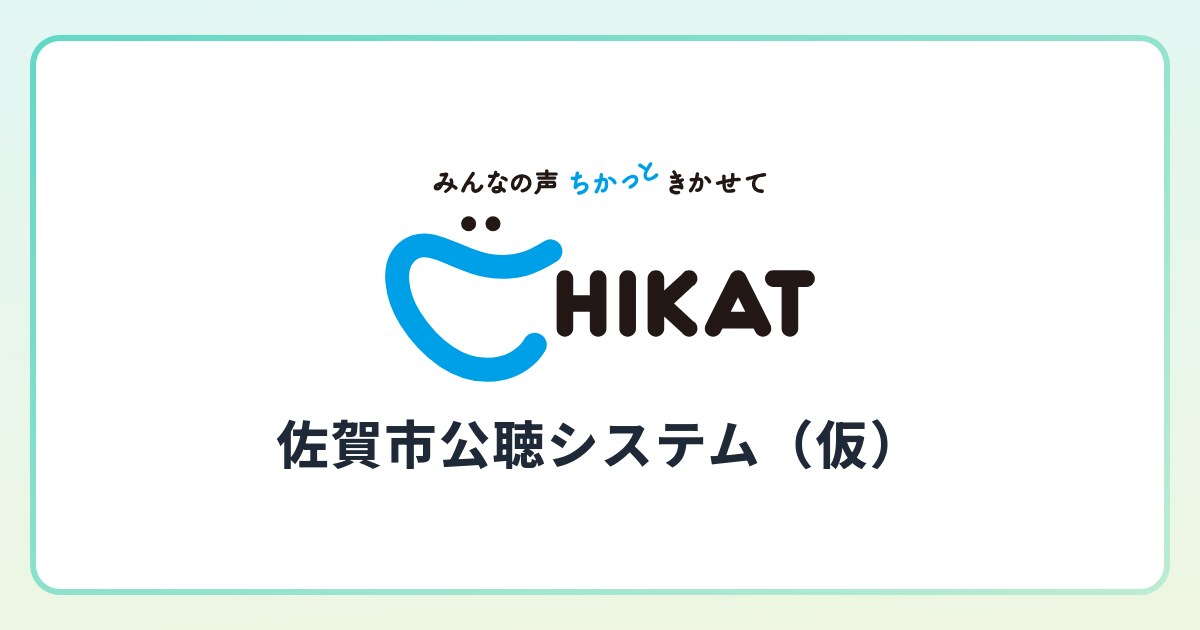
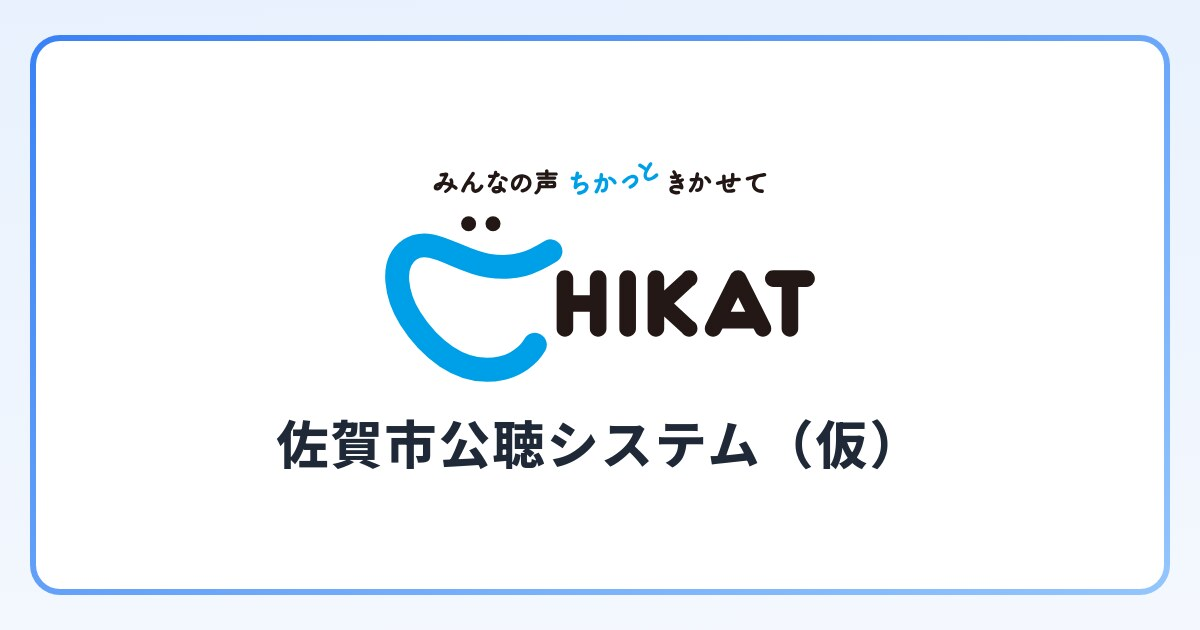
ヘッダーをタグライン抜きロゴに差し替え、OGPの配色を青系へ統一 (#61)
- タグラインを外した logo-compact.svg を追加。ヘッダーは小さく表示するため
  タグラインが数pxに潰れて視認性を下げていたのでこちらを使う
- logoImageProps(variant, height) が src と縦横比をセットで返すようにし、
  「compactのSVGにfullの比率」のような取り違えが起きないようにした
- OGPに残っていたfork元のティール系配色を OG_COLORS に切り出して青系へ統一
  (背景グラデ / カード枠 / 施策名テキスト #0f8472 → --primary-accent)
- route.test.tsx が施策名の色をliteralでセレクタに使っていたため
  OG_COLORS.textAccent 参照に変更し再ドリフトを防止
- manifest.json の theme_color を #2aa693 → #1d4ed8 (--primary)
- OGP右上の「みらい議会」バッジを削除
- 静止OGP(ogp.jpg)を同じ配色で再生成

Changed region(s): [[0.0, 0.0302, 1.0, 1.0]]

diff --git a/web/src/app/api/og/report/route.tsx b/web/src/app/api/og/report/route.tsx
@@ -3,7 +3,7 @@ import { join } from "node:path";
 import { ImageResponse } from "next/og";
 import { getReportOgData } from "@/features/interview-report/server/loaders/get-report-og-data";
 import { truncateText } from "@/features/interview-report/shared/utils/truncate-text";
-import { logoSizeForHeight } from "@/lib/logo";
+import { logoImageProps } from "@/lib/logo";
 import { SERVICE_NAME } from "@/lib/site";
 
 /**
@@ -13,6 +13,26 @@ const OG_SUMMARY_MAX_LENGTH = 100;
 const OG_BILL_NAME_MAX_LENGTH = 40;
 const OG_BILL_NAME_WIDTH = 820;
 const OG_BILL_NAME_MAX_HEIGHT = 96;
+
+/**
+ * OGP画像の配色
+ *
+ * Satori(next/og)はCSS変数を解決できないため、`globals.css` のカラートークンと
+ * 手で同期させる必要がある。frame は `--color-mirai-gradient-start/end`
+ * (#3b82f6 / #93c5fd) と同じ青系グラデーション。
+ */
+export const OG_COLORS = {
+  /** 1200x630 の地 */
+  canvas: "linear-gradient(177deg, #e8f1fd 0%, #f4f8fe 100%)",
+  /** カードのグラデ枠 / 右上バッジ */
+  frame: "linear-gradient(-30deg, #93c5fd 1%, #3b82f6 99%)",
+  /** カード本体 */
+  card: "#ffffff",
+  /** 本文テキスト。--color-mirai-text (#1f2937) */
+  text: "#1f2937",
+  /** 施策名の強調テキスト。--primary-accent (#1e40af) */
+  textAccent: "#1e40af",
+} as const;
 
 /** OGP右下に配置するロゴの表示サイズと、カード端からのオフセット(px) */
 const OG_LOGO = { height: 88, bottom: 26, right: 34 } as const;
@@ -103,6 +123,12 @@ export async function GET(request: Request) {
   );
 
   const [fontData, logoDataUrl] = await Promise.all([loadFont(), loadLogo()]);
+
+  // ロゴはラスター版(ogp-logo.png)を埋め込むのでsrcは使わず、寸法だけフル版の比率から引く
+  const { width: logoWidth, height: logoHeight } = logoImageProps(
+    "full",
+    OG_LOGO.height
+  );
   // フォント取得失敗時はプロパティ自体を省略し、デフォルトフォントにフォールバック
   const fontOptions = fontData
     ? {
@@ -125,8 +151,7 @@ export async function GET(request: Request) {
         display: "flex",
         alignItems: "center",
         justifyContent: "center",
-        backgroundImage:
-          "linear-gradient(177deg, rgb(226, 246, 243) 0%, rgb(238, 246, 226) 100%)",
+        backgroundImage: OG_COLORS.canvas,
       }}
     >
       {/* グラデーションborder用ラッパー */}
@@ -136,8 +161,7 @@ export async function GET(request: Request) {
           width: 1140,
           height: 560,
           borderRadius: 30,
-          backgroundImage:
-            "linear-gradient(-30deg, rgb(188, 236, 211) 1%, rgb(100, 216, 198) 99%)",
+          backgroundImage: OG_COLORS.frame,
           padding: 6,
           position: "relative",
         }}
@@ -148,7 +172,7 @@ export async function GET(request: Request) {
             flexDirection: "column",
             width: "100%",
             height: "100%",
-            backgroundColor: "white",
+            backgroundColor: OG_COLORS.card,
             borderRadius: 24,
             padding: "48px 56px",
           }}
@@ -159,7 +183,7 @@ export async function GET(request: Request) {
               display: "flex",
               fontSize: 38,
               fontWeight: 800,
-              color: "#1f2937",
+              color: OG_COLORS.text,
               lineHeight: 1.8,
               flex: 1,
               width: 740,
@@ -177,7 +201,7 @@ export async function GET(request: Request) {
               maxHeight: OG_BILL_NAME_MAX_HEIGHT,
               fontSize: 32,
               fontWeight: 800,
-              color: "#0f8472",
+              color: OG_COLORS.textAccent,
               lineHeight: 1.5,
               overflow: "hidden",
               wordBreak: "break-all",
@@ -187,44 +211,14 @@ export async function GET(request: Request) {
           </div>
         </div>
 
-        {/* みらい議会バッジ */}
-        <div
-          style={{
-            position: "absolute",
-            top: 0,
-            right: 0,
-            display: "flex",
-            alignItems: "center",
-            justifyContent: "center",
-            paddingLeft: 20,
-            paddingRight: 18,
-            paddingTop: 10,
-            paddingBottom: 10,
-            borderBottomLeftRadius: 30,
-            borderTopRightRadius: 30,
-            backgroundImage:
-              "linear-gradient(-30deg, rgb(188, 236, 211) 1%, rgb(100, 216, 198) 99%)",
-          }}
-        >
-          <span
-            style={{
-              fontSize: 28,
-              fontWeight: 800,
-              color: "#1f2937",
-              letterSpacing: "0.03em",
-            }}
-          >
-            みらい議会
-          </span>
-        </div>
-
         {/* ロゴ画像 */}
         {logoDataUrl && (
           // biome-ignore lint/performance/noImgElement: ignore
           <img
             alt={SERVICE_NAME}
             src={logoDataUrl}
-            {...logoSizeForHeight(OG_LOGO.height)}
+            width={logoWidth}
+            height={logoHeight}
             style={{
               position: "absolute",
               bottom: OG_LOGO.bottom,

diff --git a/web/src/lib/logo.test.ts b/web/src/lib/logo.test.ts
@@ -1,44 +1,72 @@
 import { readFileSync } from "node:fs";
 import { describe, expect, it } from "vitest";
-import { logoSizeForHeight } from "./logo";
+import { type LogoVariant, logoImageProps } from "./logo";
 
 /** テストファイルからの相対で public/ の実アセットを読む（cwdに依存させない） */
 function asset(name: string): Buffer {
   return readFileSync(new URL(`../../public/${name}`, import.meta.url));
 }
 
-describe("logoSizeForHeight", () => {
+/** SVGのviewBoxから実寸を読む */
+function svgViewBox(path: string): { width: number; height: number } {
+  const svg = asset(path).toString("utf-8");
+  const m = svg.match(/viewBox="0 0 ([\d.]+) ([\d.]+)"/);
+  if (!m) throw new Error(`viewBox not found in ${path}`);
+  return { width: Number(m[1]), height: Number(m[2]) };
+}
+
+describe("logoImageProps", () => {
   it("実際に使っている高さで期待どおりの寸法を返す", () => {
-    expect(logoSizeForHeight(36)).toEqual({ width: 70, height: 36 });
-    expect(logoSizeForHeight(76)).toEqual({ width: 149, height: 76 });
-    expect(logoSizeForHeight(88)).toEqual({ width: 172, height: 88 });
+    // ヘッダー(compact) / フッター(full) / desktop-menu・OGP(full)
+    expect(logoImageProps("compact", 32)).toEqual({
+      src: "/img/logo-compact.svg",
+      width: 83,
+      height: 32,
+    });
+    expect(logoImageProps("full", 76)).toEqual({
+      src: "/img/logo.svg",
+      width: 149,
+      height: 76,
+    });
+    expect(logoImageProps("full", 88)).toEqual({
+      src: "/img/logo.svg",
+      width: 172,
+      height: 88,
+    });
   });
 
-  it("任意の高さで丸め誤差が0.5px以内に収まる", () => {
-    // 呼び出し側の高さが変わっても比率が崩れないことを、列挙に依存せず保証する
-    for (let height = 1; height <= 600; height++) {
-      const { width } = logoSizeForHeight(height);
-      expect(Math.abs(width - (height * 546) / 279)).toBeLessThanOrEqual(0.5);
-    }
+  it("compactはfullより横長（タグラインを外した分だけ高さが減る）", () => {
+    const full = logoImageProps("full", 100);
+    const compact = logoImageProps("compact", 100);
+    expect(compact.width).toBeGreaterThan(full.width);
   });
 
-  // ここから下は「ヘルパーの比率」と「public/ の実アセット」がドリフトしていない
-  // ことを検証する。ロゴを別比率のものに差し替えたらここで落ちるのが狙い。
-  it("logo.svg のviewBoxと同じ縦横比を返す", () => {
-    const svg = asset("img/logo.svg").toString("utf-8");
-    const viewBox = svg.match(/viewBox="0 0 ([\d.]+) ([\d.]+)"/);
-    expect(viewBox).not.toBeNull();
-    const [width, height] = [Number(viewBox?.[1]), Number(viewBox?.[2])];
+  // 以下は「ヘルパーの比率」と「public/ の実アセット」がドリフトしていないことの検証。
+  // ロゴを別比率のものに差し替えたらここで落ちるのが狙い。
+  it.each<LogoVariant>([
+    "full",
+    "compact",
+  ])("%s のviewBoxと同じ縦横比を返す", (variant) => {
+    const { src } = logoImageProps(variant, 1);
+    const { width, height } = svgViewBox(src.replace(/^\/img\//, "img/"));
 
-    expect(logoSizeForHeight(height)).toEqual({ width, height });
+    expect(logoImageProps(variant, height)).toEqual({
+      src,
+      width: Math.round(width),
+      height,
+    });
   });
 
-  it("OGP用ラスター版 ogp-logo.png も同じ縦横比で書き出されている", () => {
+  it("OGP用ラスター版 ogp-logo.png はfullの表示枠の2倍で書き出されている", () => {
     // PNGのIHDRチャンク: 16..20 が width、20..24 が height (big-endian uint32)
     const png = asset("img/ogp-logo.png");
     expect(png.subarray(1, 4).toString("ascii")).toBe("PNG");
     const [width, height] = [png.readUInt32BE(16), png.readUInt32BE(20)];
 
-    expect(logoSizeForHeight(height)).toEqual({ width, height });
+    const displayed = logoImageProps("full", height / 2);
+    expect({
+      width: displayed.width * 2,
+      height: displayed.height * 2,
+    }).toEqual({ width, height });
   });
 });

diff --git a/web/src/lib/logo.ts b/web/src/lib/logo.ts
@@ -1,27 +1,40 @@
 /**
  * サービスロゴの寸法ユーティリティ
  *
- * ロゴは横長のロックアップ（にっこりマーク + CHIKATワードマーク + タグライン）。
- * `next/image` / Satori はいずれも width/height をそのまま出力するため、実比率と
- * ずれた値を渡すとレイアウトシフト（CLS）や縦横比の歪みが起きる。各表示箇所では
- * 高さだけを決め、幅はここから導出する。
+ * ロゴは2バリアントある。表示サイズが小さい箇所ではタグラインが数pxに潰れて
+ * ロゴ自体の視認性を下げるため、タグラインを外した compact を使う。
  *
- * OGP用のラスター版 `img/ogp-logo.png` も、ここで求まる表示枠の整数倍で書き出して
- * いるので同じ比率に乗る。
+ * `next/image` / Satori はいずれも width/height をそのまま出力するので、実比率と
+ * ずれた値を渡すとレイアウトシフト（CLS）や縦横比の歪みが起きる。各表示箇所では
+ * 高さだけを決め、幅と参照先はバリアントから導出する。
  */
 
-/** logo.svg の viewBox 実寸 */
-const VIEWBOX = { width: 546, height: 279 } as const;
+const LOGO_VARIANTS = {
+  /** にっこりマーク + CHIKATワードマーク + タグライン。大きく見せる箇所用 */
+  full: { src: "/img/logo.svg", viewBox: { width: 546, height: 279 } },
+  /** タグラインを外した版。ヘッダーなど小さく見せる箇所用 */
+  compact: {
+    src: "/img/logo-compact.svg",
+    viewBox: { width: 546, height: 210.4 },
+  },
+} as const;
+
+export type LogoVariant = keyof typeof LOGO_VARIANTS;
 
 /**
- * 表示したい高さから、viewBoxの縦横比を保った width/height を求める
+ * 表示したい高さから、`next/image` に渡す src / width / height を求める。
+ *
+ * src と縦横比を必ずセットで返すことで、「compactのSVGにfullの比率」のような
+ * 取り違えが起きないようにしている。
  */
-export function logoSizeForHeight(height: number): {
-  width: number;
-  height: number;
-} {
+export function logoImageProps(
+  variant: LogoVariant,
+  height: number
+): { src: string; width: number; height: number } {
+  const { src, viewBox } = LOGO_VARIANTS[variant];
   return {
-    width: Math.round((height * VIEWBOX.width) / VIEWBOX.height),
+    src,
+    width: Math.round((height * viewBox.width) / viewBox.height),
     height,
   };
 }

diff --git a/web/src/components/header/header-client.tsx b/web/src/components/header/header-client.tsx
@@ -8,7 +8,7 @@ import type { DifficultyLevelEnum } from "@/features/bill-difficulty/shared/type
 import { InterviewHeaderActions } from "@/features/interview-session/client/components/interview-header-actions";
 import { sendDifficultyStateEvent } from "@/lib/analytics/preference-state-events";
 import { useOnPageView } from "@/lib/analytics/use-on-page-view";
-import { logoSizeForHeight } from "@/lib/logo";
+import { logoImageProps } from "@/lib/logo";
 import { isInterviewPage, isMainPage } from "@/lib/page-layout-utils";
 import { routes } from "@/lib/routes";
 import { SERVICE_NAME } from "@/lib/site";
@@ -33,13 +33,9 @@ export function HeaderClient({ difficultyLevel }: HeaderClientProps) {
     <header className="px-3 fixed top-4 left-0 right-0 z-40 max-w-[1440px] mx-auto">
       <div className="rounded-2xl bg-white shadow-sm mx-auto px-4 sm:px-6 lg:px-8">
         <div className="flex justify-between items-center h-16">
-          {/* ロゴ。ワードマーク入りで幅を取るため、狭い画面ではサービス名を併記しない */}
+          {/* ロゴ。小さく出すためタグライン抜き。ワードマークを含むのでサービス名は併記しない */}
           <Link href={routes.home()} aria-label={`${SERVICE_NAME} ホーム`}>
-            <Image
-              src="/img/logo.svg"
-              alt={SERVICE_NAME}
-              {...logoSizeForHeight(36)}
-            />
+            <Image alt={SERVICE_NAME} {...logoImageProps("compact", 32)} />
           </Link>
 
           {/* Navigation */}

diff --git a/web/src/components/layouts/footer/footer.tsx b/web/src/components/layouts/footer/footer.tsx
@@ -4,7 +4,7 @@ import type { Route } from "next";
 import Image from "next/image";
 import Link from "next/link";
 import { usePathname } from "next/navigation";
-import { logoSizeForHeight } from "@/lib/logo";
+import { logoImageProps } from "@/lib/logo";
 import { isInterviewPage } from "@/lib/page-layout-utils";
 import { routes } from "@/lib/routes";
 import { SERVICE_NAME } from "@/lib/site";
@@ -33,11 +33,7 @@ function FooterLogoSection() {
   return (
     <div className="flex flex-col items-center text-center mb-9">
       <Link href={routes.home()} aria-label={`${SERVICE_NAME} トップページ`}>
-        <Image
-          src="/img/logo.svg"
-          alt={SERVICE_NAME}
-          {...logoSizeForHeight(76)}
-        />
+        <Image alt={SERVICE_NAME} {...logoImageProps("full", 76)} />
       </Link>
     </div>
   );

diff --git a/web/src/components/layouts/desktop-menu/logo.tsx b/web/src/components/layouts/desktop-menu/logo.tsx
@@ -1,6 +1,6 @@
 import Image from "next/image";
 import Link from "next/link";
-import { logoSizeForHeight } from "@/lib/logo";
+import { logoImageProps } from "@/lib/logo";
 import { routes } from "@/lib/routes";
 import { SERVICE_NAME } from "@/lib/site";
 
@@ -14,7 +14,7 @@ export function DesktopMenuLogo() {
       className="fixed top-6 left-6 z-50 flex items-center gap-6 hover:opacity-90 transition-opacity"
     >
       {/* ロゴ。隣の<h1>が同じサービス名を読ませるので、画像は装飾扱いにする */}
-      <Image src="/img/logo.svg" alt="" {...logoSizeForHeight(88)} priority />
+      <Image alt="" {...logoImageProps("full", 88)} priority />
 
       {/* テキスト */}
       <div className="flex flex-col gap-1.5">

diff --git a/web/src/app/api/og/report/route.test.tsx b/web/src/app/api/og/report/route.test.tsx
@@ -1,7 +1,7 @@
 import type { ReactElement, ReactNode } from "react";
 import { afterEach, describe, expect, it, vi } from "vitest";
 import { getReportOgData } from "@/features/interview-report/server/loaders/get-report-og-data";
-import { GET } from "./route";
+import { GET, OG_COLORS } from "./route";
 
 type StyledElementProps = {
   children?: ReactNode;
@@ -38,7 +38,7 @@ function findBillNameElement(
   const element = node as ReactElement<StyledElementProps>;
   if (
     element.props.children === text &&
-    element.props.style?.color === "#0f8472"
+    element.props.style?.color === OG_COLORS.textAccent
   ) {
     return element;
   }
